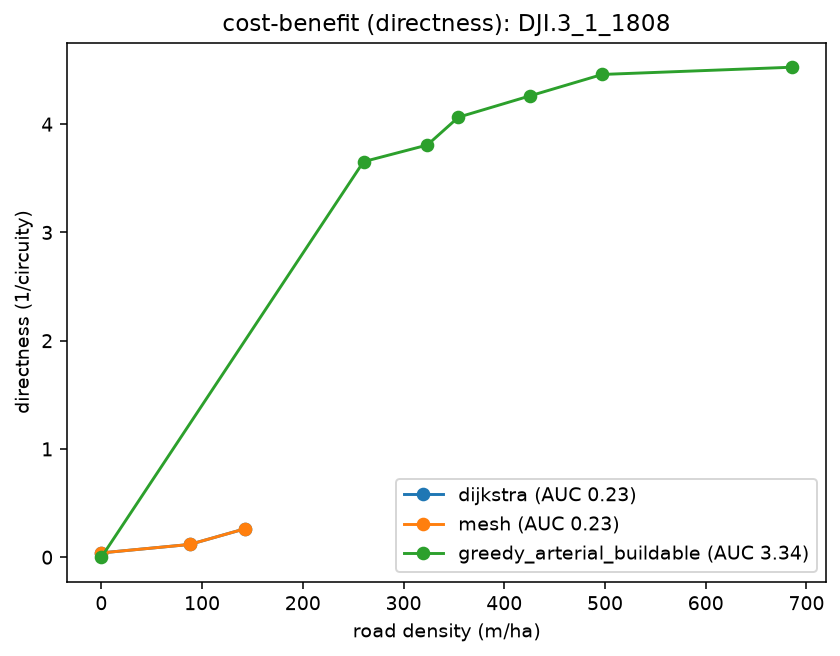
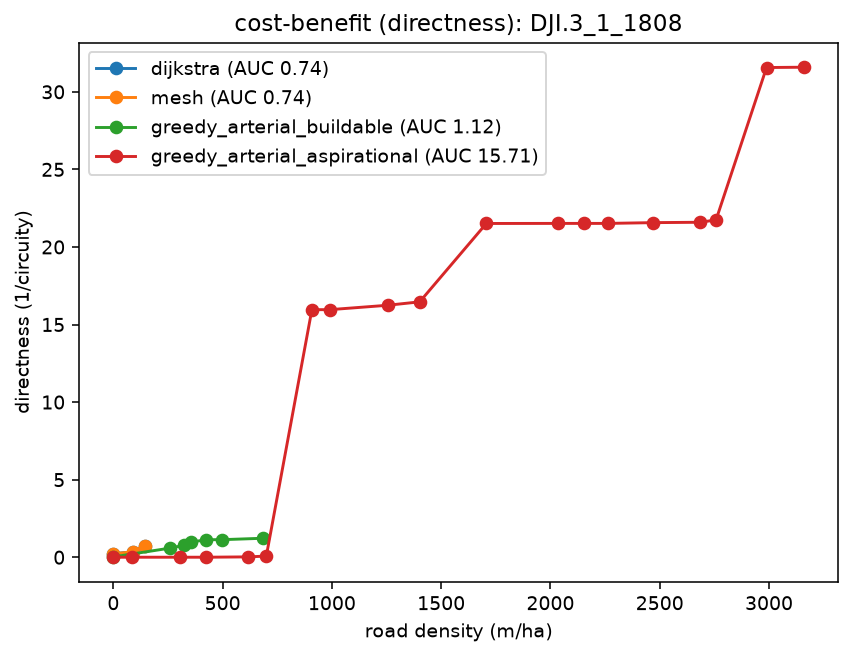
feat: unblock aspirational arterial + guard the line-proximity fix; re-measure docs
Adds greedy_arterial_aspirational to the compare methods (aspirational is now a
valid directness ceiling, buildable = the measurable price of buildability) and
drops the stale vertex-scoring caveat. Adds the under-counting regression guard
test_line_proximity_scores_a_sparse_straight_chord (a 2-point chord scores ~0.88,
not ~0 as the old vertex rule gave -- the whole point of the change). Re-measures
the doc directness claims (line-proximity raised dijkstra's directness, shrinking
the ratios) and marks north-star Piece 1 adopted; regenerates the example compare
curve on the new metric.

Note (pre-existing, follow-up): _sampled_efficiency's directness uses a rep-to-rep
numerator over an entry-to-entry denominator, so absolute directness can exceed 1
and line entries amplify the magnitude -- trust the ranking, not the raw AUC.

Claude-Session: https://claude.ai/code/session_0125mCca6BQaTXiLZPMyFa8x

diff --git a/tests/test_budget.py b/tests/test_budget.py
@@ -117,6 +117,27 @@ def test_efficiency_and_directness_rise_with_roads() -> None:
     assert e_full > e_none and d_full > d_none
 
 
+def test_line_proximity_scores_a_sparse_straight_chord() -> None:
+    # A single 2-point straight chord has only its endpoints as graph vertices, so the OLD
+    # nearest-VERTEX entry rule scored parcels abreast of its middle as ~unreachable (~0
+    # directness) -- inverting the price-of-buildability. Line-proximity projects each parcel onto
+    # the nearest POINT on the chord, so the sparse chord genuinely serves the parcels it runs past.
+    from shapely.geometry import LineString
+
+    from reblock.budget import network_efficiency
+    polys = [Polygon([(i, j), (i + 1, j), (i + 1, j + 1), (i, j + 1)])
+             for i in range(3) for j in range(7)]     # 3x7 block, deep
+    parcels = gpd.GeoDataFrame({"parcel_id": list(range(len(polys)))}, geometry=polys, crs=UTM)
+    boundary = cast(Polygon, parcels.geometry.union_all())
+    streets = gpd.GeoDataFrame(geometry=[LineString([(0.0, 0.0), (3.0, 0.0)])], crs=UTM)  # bottom
+    block = Block(block_id="deep", crs=UTM, boundary=boundary, parcels=parcels, streets=streets)
+    chord = gpd.GeoDataFrame(geometry=[LineString([(1.5, 0.0), (1.5, 7.0)])], crs=UTM)  # spine
+    _, d_none = network_efficiency(block, cast(gpd.GeoDataFrame, chord.iloc[:0]))
+    _, d_chord = network_efficiency(block, chord)
+    assert d_chord > d_none            # the chord helps
+    assert d_chord > 0.2               # ... non-trivially -- the 2-point chord IS counted, not ~0
+
+
 def test_cost_benefit_curve_accepts_a_benefit_fn() -> None:
     from reblock.budget import cost_benefit_curve, efficiency_benefit
     block = _grid_block(5)

diff --git a/README.md b/README.md
@@ -97,11 +97,14 @@ directness.
 
 **`greedy_arterial_buildable` is the navigability flagship.** It greedily inserts the straight
 through-road with the best directness gain per meter, one at a time, and leads the field on
-`directness` and `efficiency` (≈10× dijkstra/mesh on real blocks) — the method to reach for when
-circulation matters. The tradeoff: it is slow (minutes/block — it scores every candidate road
-honestly), and it trades a little `access` AUC for that navigability, so **dijkstra remains the
-fast default** for access-first reblocking. The compare is exactly how you see this Pareto
-tradeoff: arterial wins directness/efficiency, dijkstra wins access-per-second.
+`directness` and `efficiency` (several× dijkstra/mesh on real blocks) — the method to reach for when
+circulation matters. Add `greedy_arterial_aspirational` (ideal straight chords, not snapped to
+frontages) to `methods=[...]` to see the directness **ceiling**: it beats buildable by a wide margin,
+and the gap is the measurable *price of buildability*. The tradeoff: arterial is slow (minutes/block
+— it scores every candidate road honestly), and it trades a little `access` AUC for that
+navigability, so **dijkstra remains the fast default** for access-first reblocking. The compare is
+exactly how you see this Pareto tradeoff: arterial wins directness/efficiency, dijkstra wins
+access-per-second.
 
 ## Multi-block (region) reblocking
 
@@ -125,10 +128,10 @@ pixi run python -m reblock.compare data=dji methods=[dijkstra,mesh,greedy_arteri
 The reblock writes `region:..._before.png` / `_after.png` plus `region_map.png` (the region-builder's
 block-membership map); the compare writes the same per-metric `auc_table_{metric}.csv` /
 `curve_{metric}_{region}.png` as the single-block case, keyed by region. **This is where arterial
-pulls furthest ahead** — on a region there is room for long cross-block through-roads, so on the DJI
-pair its directness AUC (~1.08 vs ~0.19 for dijkstra/mesh, ~6×) and efficiency AUC (~6×) lead by a
-wide margin (the existing inter-block streets already give decent access, so the tree methods only
-add local spurs; arterial adds the region-spanning through-roads). dijkstra still wins access.
+pulls furthest ahead** — on a region there is room for long cross-block through-roads, so its
+directness and efficiency AUC lead dijkstra/mesh by a wide margin (the existing inter-block streets
+already give decent access, so the tree methods only add local spurs; arterial adds the
+region-spanning through-roads). dijkstra still wins access.
 
 ![region map](examples/multi-block/region_map.png)
 

diff --git a/examples/compare/README.md b/examples/compare/README.md
@@ -5,14 +5,16 @@ budget range (not just at full build, where they converge). Grades every method 
 `access`, `efficiency` (network E), and `directness` (1/circuity).
 
 ```bash
-pixi run python -m reblock.compare data=dji eval=kcomplexity \
-  "block_ids=[[DJI.3_1_1808]]" methods=[dijkstra,mesh,greedy_arterial_buildable]
+pixi run python -m reblock.compare data=dji eval=kcomplexity "block_ids=[[DJI.3_1_1808]]" \
+  methods=[dijkstra,mesh,greedy_arterial_buildable,greedy_arterial_aspirational]
 ```
 
 Writes, per metric, `auc_table_{metric}.csv` (mean AUC per method, higher = more benefit per meter)
 and `curve_{metric}_{block}.png` (benefit vs road density, m/ha). `greedy_arterial_buildable` is the
-navigability flagship — it leads on `directness` (≈10× dijkstra/mesh) at the cost of being slow and
-trading a little access; `dijkstra` stays the fast access-first default.
+navigability flagship — it leads on `directness` (several× dijkstra/mesh) at the cost of being slow
+and trading a little access; `dijkstra` stays the fast access-first default.
+`greedy_arterial_aspirational` (ideal straight chords, not snapped to frontages) is the directness
+**ceiling** — it sits well above buildable, and that gap is the *price of buildability*.
 
 **Directness — arterial pulls ahead:**
 

diff --git a/docs/metrics-north-star.md b/docs/metrics-north-star.md
@@ -1,6 +1,10 @@
 # Reblocking metrics — north star
 
-**Status:** guiding vision (not yet implemented) · **Date:** 2026-07-09
+**Status:** guiding vision · **Date:** 2026-07-09 · **Piece 1 (line-proximity entries) ADOPTED
+2026-07-10** — `network_efficiency` now maps a parcel to the nearest point on a road edge (not the
+nearest graph vertex), fixing the sparse-chord undercount that inverted the price-of-buildability;
+this unblocked aspirational arterial as a valid directness ceiling. Piece 2 (grounded effective
+resistance) remains a prototype on branch `north-star-metric`.
 
 This is the metric we are *aiming* at. Today's three lenses — access (Σ depth²),
 network-efficiency E (mean 1/d), and directness (mean euclid/d) — are useful proxies, but
